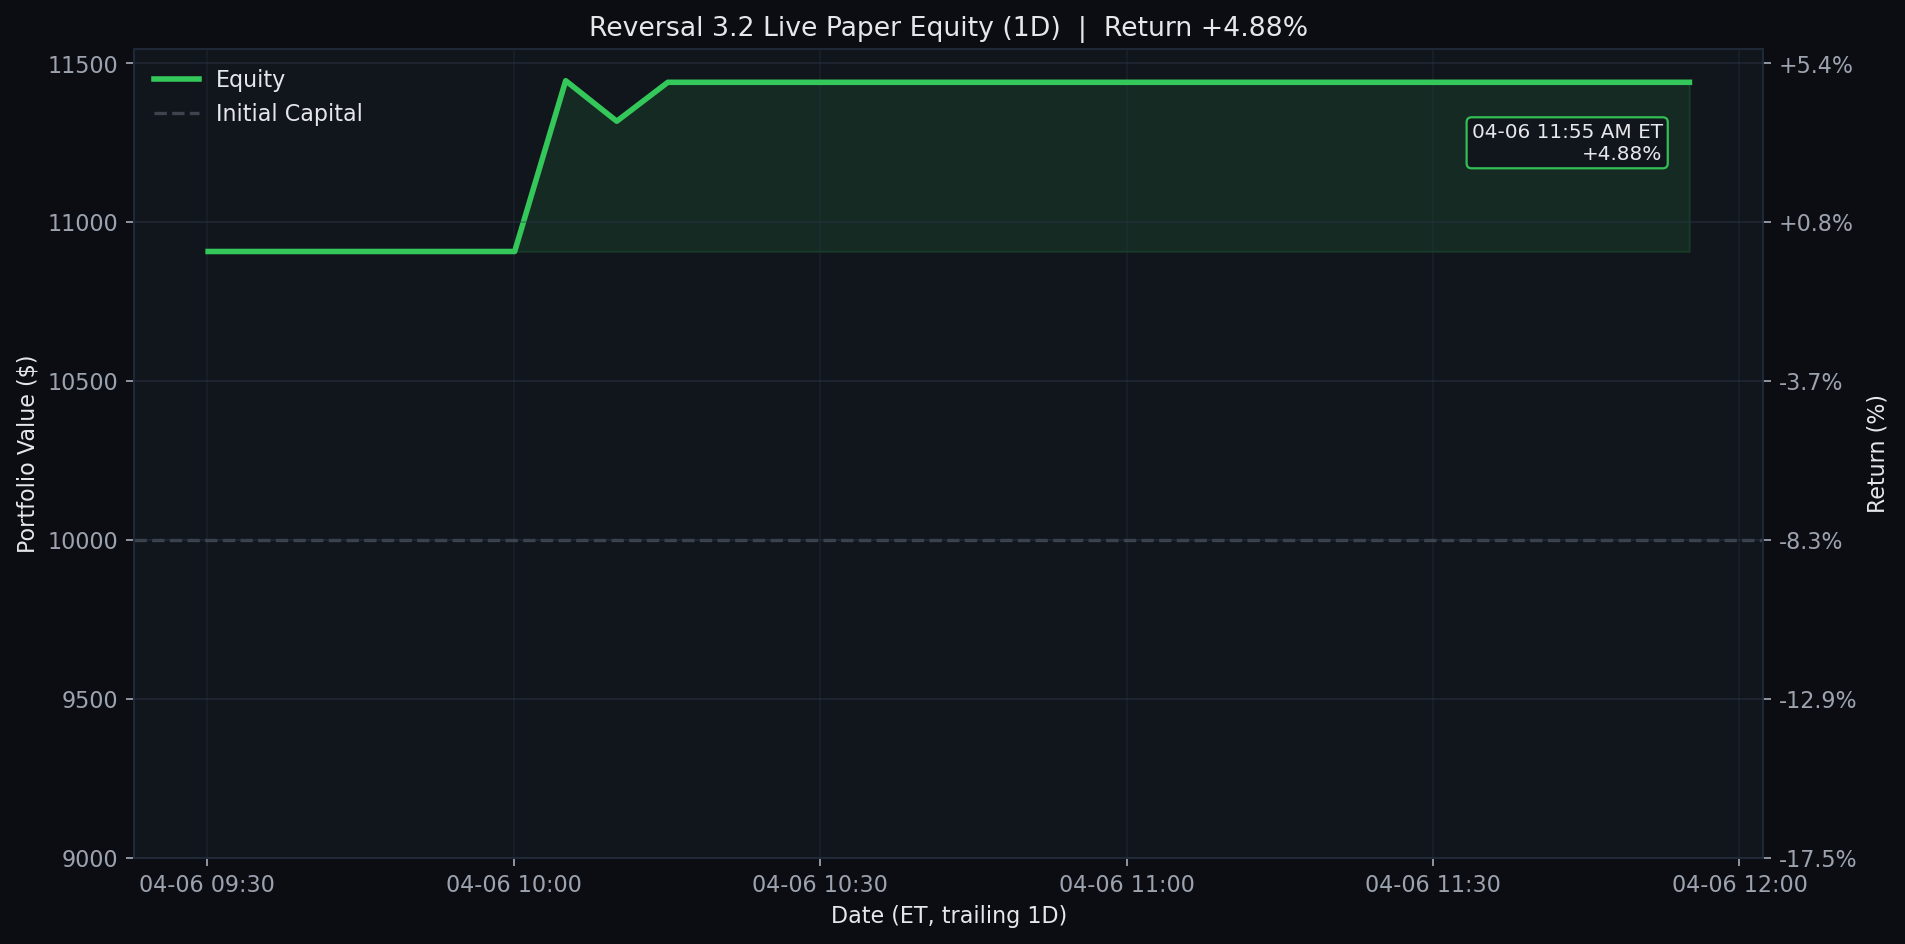
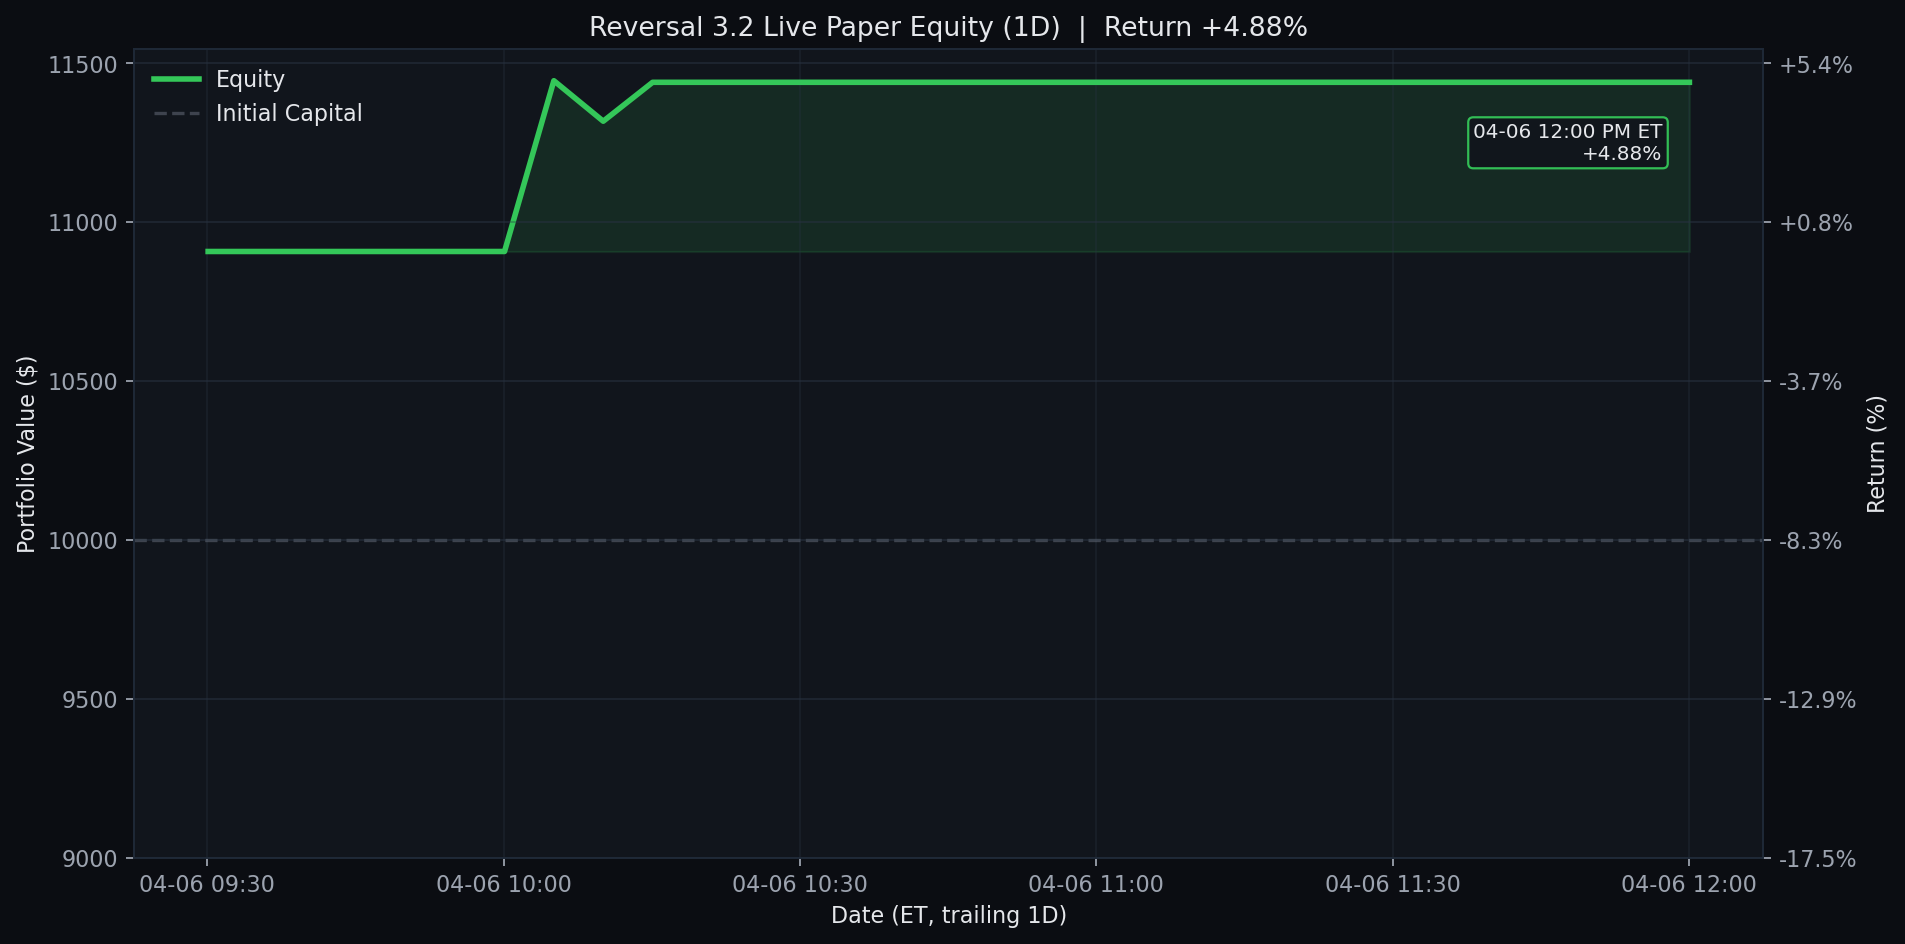
Update Reversal 3.2 live paper test 2026-04-06 12:00 ET

diff --git a/results/reversal_3_2_live/README.md b/results/reversal_3_2_live/README.md
@@ -1,6 +1,6 @@
 # Reversal 3.2 Live Paper Test
 
-Last updated (ET): `2026-04-06 11:55:05 EDT`
+Last updated (ET): `2026-04-06 12:00:03 EDT`
 Last processed slot: `manage_1200`
 
 ## Active Configuration
@@ -40,24 +40,25 @@ ticker    contract_symbol entry_trade_date_et exit_trade_date_et  entry_option_p
 
 ```text
 ticker  success_rate_%  matched_signals  current_drop_%  target_rebound_$  target_price  rolling_sigma_20d_%  call_candidate
-   HON          100.00               20            0.81              1.31        228.89                20.57            True
-  NFLX           95.00               40            0.51              0.35         98.51                27.07            True
-  FAST           91.18               34            0.66              0.21         46.21                21.85            True
-  ASML           87.10               31            1.08             10.00       1312.94                51.28            True
-  TSLA           85.71               21            1.85              4.67        358.59                42.35            True
-   LIN           85.00               20            0.79              2.80        501.40                19.40            True
-   PEP           84.21               19            0.66              0.72        156.70                18.34            True
-  TMUS           83.33               24            1.01              1.43        200.79                22.45            True
-  CTSH           81.82               33            0.77              0.34         62.40                26.11            True
-  CRWD           80.00               40            0.95              2.65        397.99                42.36            True
-  FANG          100.00               29            0.29              0.39        193.71                28.70           False
- CMCSA           95.24               21            0.20              0.04         27.91                25.15           False
+   HON          100.00               20            0.81              1.29        228.90                20.57            True
+  NFLX           95.00               40            0.55              0.38         98.50                27.07            True
+  FAST           88.46               26            1.04              0.34         46.16                21.85            True
+   LIN           87.50               16            0.87              3.06        501.29                19.40            True
+  ASML           87.10               31            1.07              9.83       1313.02                51.28            True
+  TSLA           85.71               21            1.83              4.61        358.61                42.35            True
+  TMUS           83.33               24            1.02              1.43        200.79                22.45            True
+  CTSH           81.82               33            0.78              0.34         62.39                26.11            True
+   PEP           80.00               20            0.64              0.71        156.71                18.34            True
+  DDOG           80.00               15            4.23              3.57        118.83                49.88            True
+  FANG          100.00               29            0.35              0.47        193.68                28.70           False
+ CMCSA           95.24               21            0.12              0.02         27.92                25.15           False
 ```
 
 ## Recent Events
 
 ```text
                     timestamp_et        slot   event_type                          detail
+2026-04-06T12:00:03.424842-04:00 manage_1200 slot_skipped {"reason": "already_processed"}
 2026-04-06T11:55:05.886057-04:00 manage_1200 slot_skipped {"reason": "already_processed"}
 2026-04-06T11:40:05.882469-04:00 manage_1130 slot_skipped {"reason": "already_processed"}
 2026-04-06T11:35:05.887081-04:00 manage_1130 slot_skipped {"reason": "already_processed"}
@@ -67,7 +68,6 @@ ticker  success_rate_%  matched_signals  current_drop_%  target_rebound_$  targe
 2026-04-06T11:05:06.304097-04:00 manage_1100 slot_skipped {"reason": "already_processed"}
 2026-04-06T11:00:03.415712-04:00 manage_1100 slot_skipped {"reason": "already_processed"}
 2026-04-06T10:55:05.885281-04:00 manage_1100 slot_skipped {"reason": "already_processed"}
-2026-04-06T10:40:05.887120-04:00 manage_1030 slot_skipped {"reason": "already_processed"}
 ```
 
 ## Equity Curves

diff --git a/README.md b/README.md
@@ -3,7 +3,7 @@
 <!-- reversal-3.2-live:start -->
 ## Reversal 3.2 Live Paper Test
 
-- Last updated (ET): `2026-04-06 11:55:05 EDT`
+- Last updated (ET): `2026-04-06 12:00:03 EDT`
 - Equity: `$11,440.00` | Realized: `$1,440.00` | Unrealized: `$0.00` | Open positions: `0`
 - Today closed trades: `1`
 - Current slot: `manage_1200`
